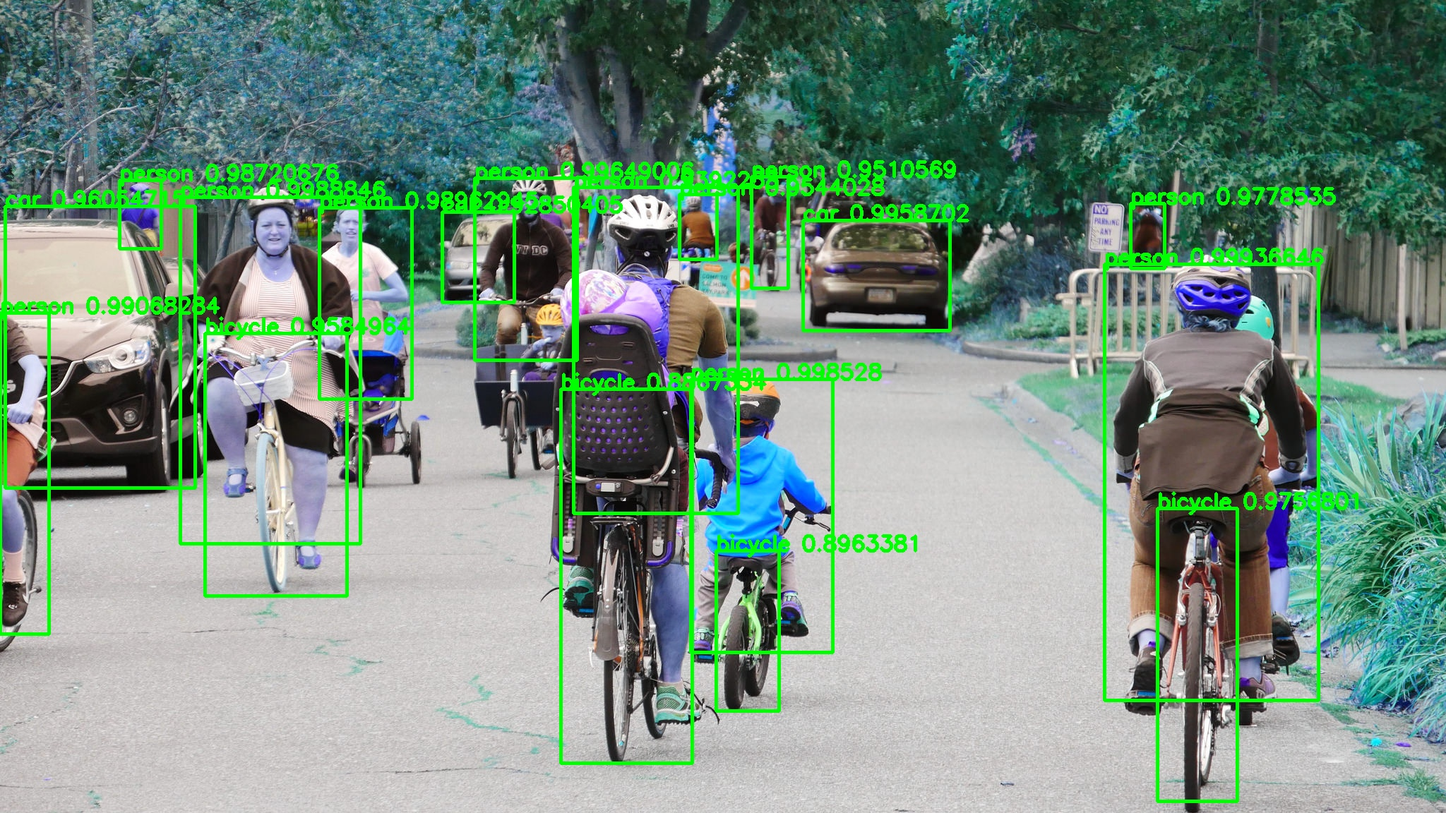
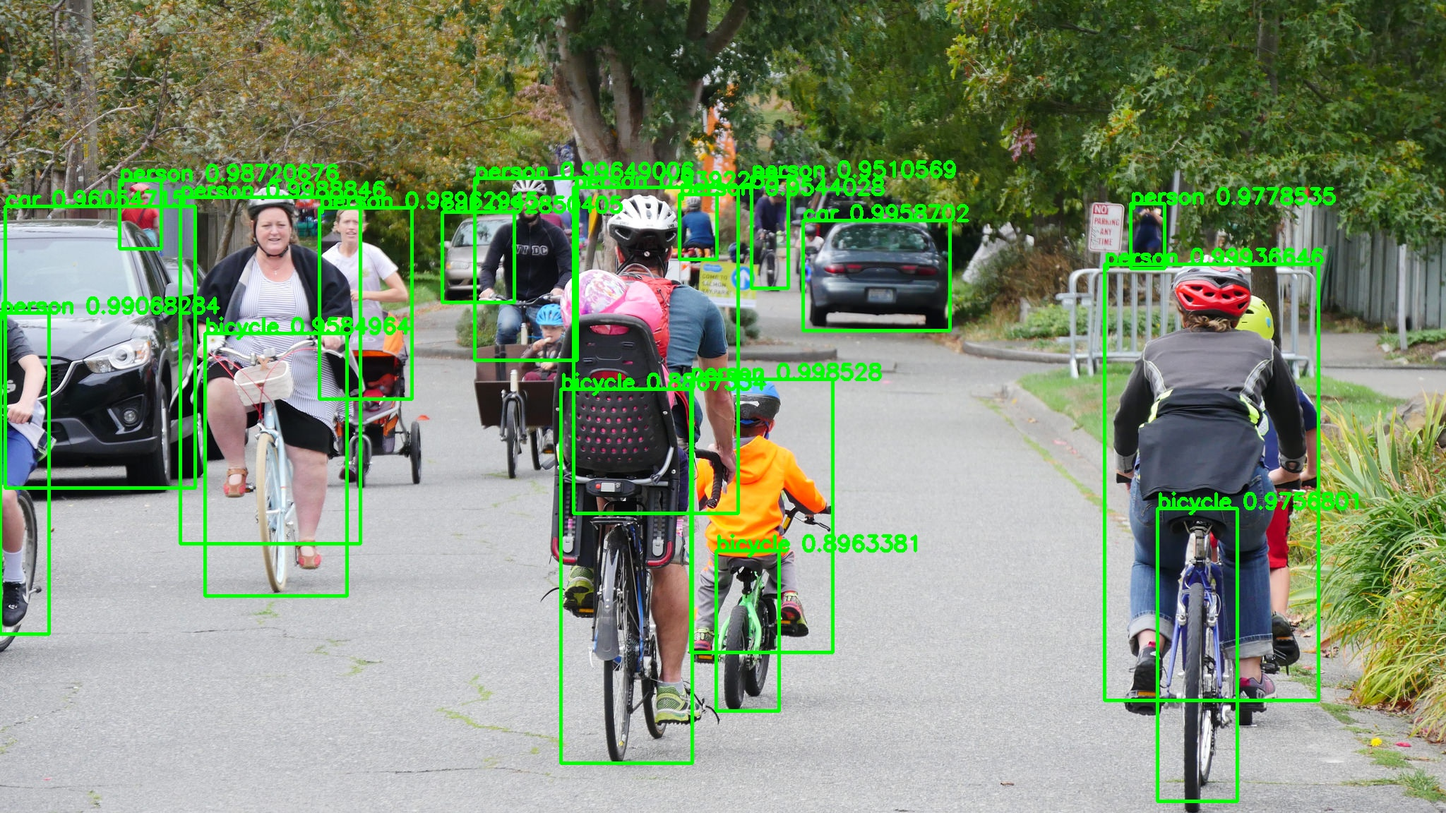
updat test.py and test outputs

diff --git a/test.py b/test.py
@@ -18,5 +18,5 @@ outputs = ['Test_Output/1.bicycles-SDOT-flickr.jpg',
 for i in range(len(inputs)):
     results = object_detection(inputs[i])
     img = results['image']
-    cv2.imwrite(outputs[i], img)
+    cv2.imwrite(outputs[i], cv2.cvtColor(img, cv2.COLOR_RGB2BGR))
     print(results['object_count'])
